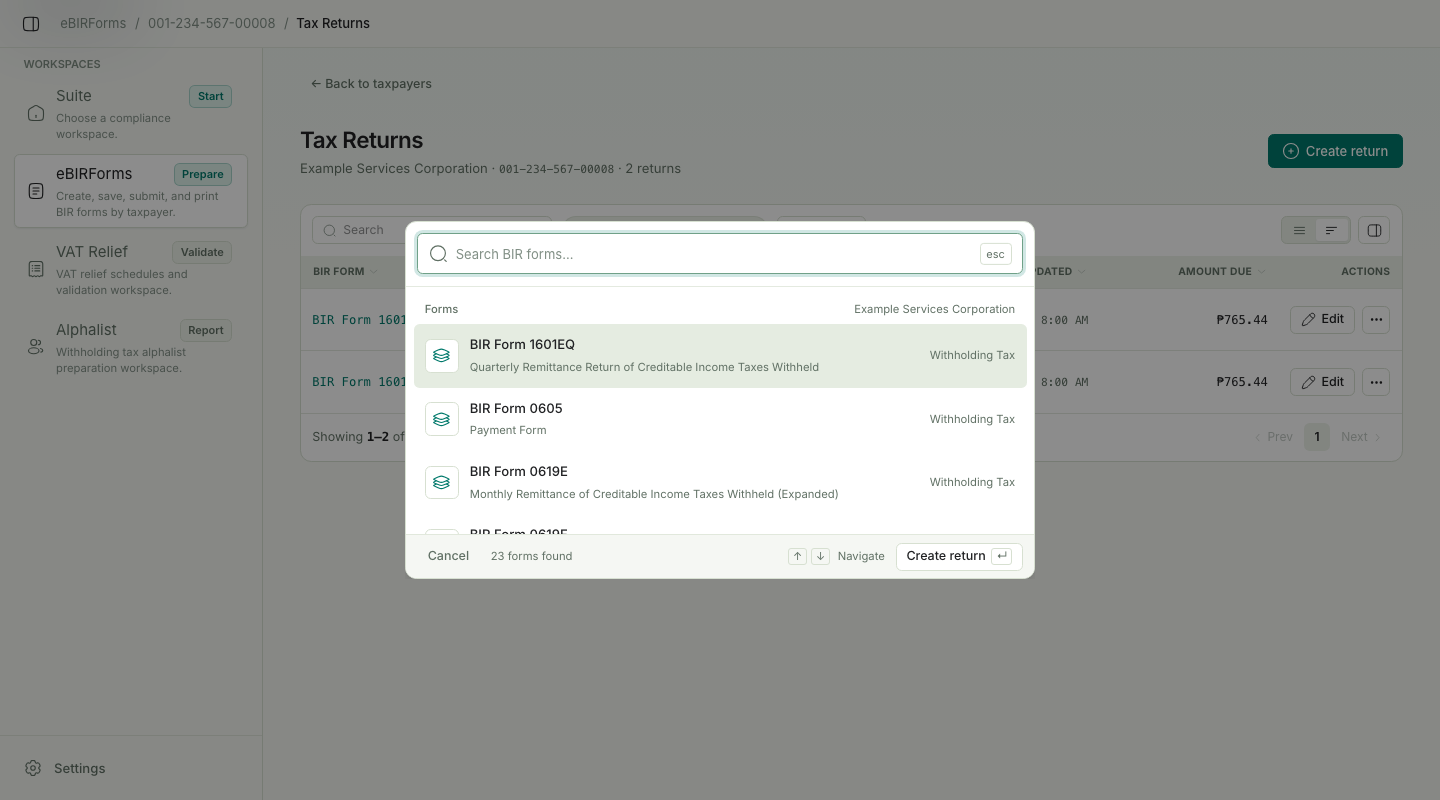
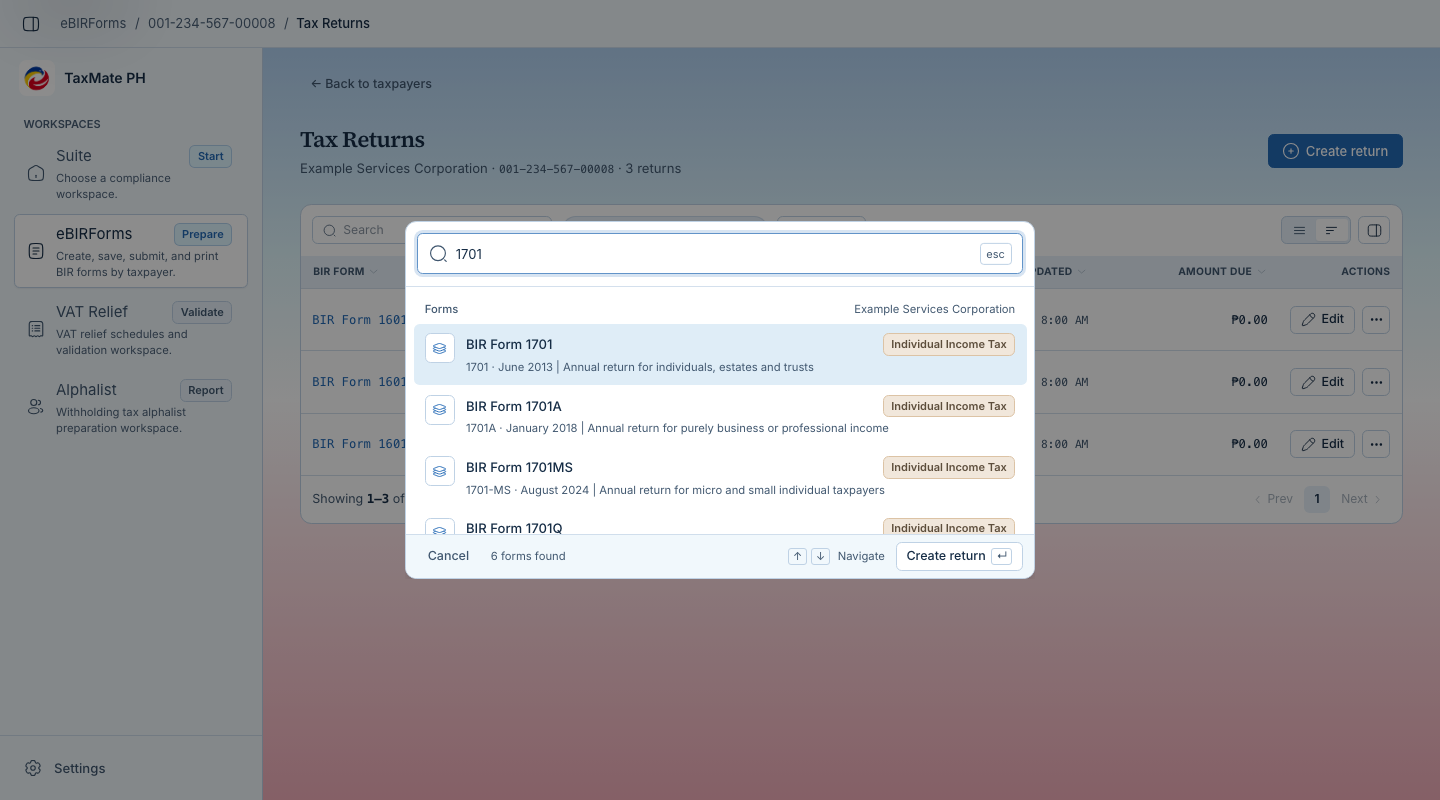
fix(readme): refresh the app tour and screenshots

diff --git a/README.md b/README.md
@@ -1,142 +1,132 @@
 <p align="center">
-  <img src="src-tauri/icons/icon.png" alt="TaxMate PH app logo" width="128" />
+  <img src="src-tauri/icons/icon.png" alt="TaxMate PH app logo" width="112" />
 </p>
 
 <h1 align="center">TaxMate PH</h1>
 
-<p align="center"><strong>Your taxpayers. Your returns. One workspace.</strong></p>
+<p align="center">A desktop workspace for preparing Philippine BIR returns.</p>
 
 <p align="center">
-  <a href="#why-taxmate-ph-was-created">Why TaxMate PH</a> ·
-  <a href="#what-you-can-do-today">Features</a> ·
-  <a href="#a-look-inside">Screenshots</a> ·
-  <a href="#currently-supported-ebirforms">Supported forms</a>
+  <a href="#features">Features</a> ·
+  <a href="#app-tour">App tour</a> ·
+  <a href="#supported-bir-forms">Supported forms</a> ·
+  <a href="#sending-and-filing-status">Sending and filing status</a> ·
+  <a href="#run-from-source">Run from source</a>
 </p>
 
-TaxMate PH is a Philippine tax preparation workspace for managing taxpayers,
-preparing supported BIR returns, checking entries, and generating printable PDFs.
-Its current working module is **eBIRForms**, with **23 supported form versions**.
+Manage taxpayer profiles, reuse details across returns, and keep draft and final
+copies by reporting period. The eBIRForms workspace covers **31 form versions**,
+including **23 payment and withholding versions** and **8 individual income tax
+versions**.
 
-The project is a proof of concept and is not an official BIR application. Its
-calculations and form coverage do not establish current legal applicability or
-guarantee BIR acceptance.
+TaxMate PH is an independent proof of concept that grew out of the need for a
+cross-platform alternative to the legacy Windows eBIRForms utility. For filing
+requirements and accepted forms, refer to the Bureau of Internal Revenue.
 
-![TaxMate PH return editor showing a sample 1601-EQ with taxpayer details, ATC entries, and a calculated summary](.github/assets/return-editor.png)
+![Form 1601-EQ editor showing taxpayer details, an ATC line item, and calculated tax withheld](.github/assets/return-editor.png)
 
-*Form 1601-EQ preparation with fictional sample data.*
+*Form 1601-EQ with fictional sample data.*
 
-## Why TaxMate PH was created
+## Features
 
-TaxMate PH grew out of frustration with the legacy eBIRForms app and its
-Windows-only availability. Preparing Philippine tax returns should be easier to
-manage and accessible to people using other operating systems.
+| Feature | What you can do |
+| --- | --- |
+| Taxpayer profiles | Keep TIN, branch, RDO, address, contact, and classification details on your device. Reuse them when creating returns. |
+| Form preparation | Choose from legacy and revised forms. Work through form-specific fields and schedules, select alphanumeric tax codes (ATCs), and review calculated totals, credits, remittances, or balances. |
+| Validation and saved returns | Review highlighted entries, save drafts, and mark validated copies final locally. Find returns by period and status, and archive or restore working records. Enter penalty amounts manually where applicable. |
+| PDF export | Generate printable copies in A4, Letter, Long / Folio, or Legal. Supported withholding schedules can continue on additional pages. |
+| Return packages and history | Prepare packages locally, use desktop sending for eligible 1601-EQ returns, and review locally recorded results and submission logs. |
+| Workspace preferences | Choose an eBIRForms, Teal, or Catppuccin palette, set light, dark, or system appearance, and save a default paper size. |
 
-The goal is to bring workflows commonly handled through separate desktop
-utilities into a consistent workspace: maintain taxpayer details once, reuse them
-across returns, save work by reporting period, and review forms before sending or
-printing them.
+## App tour
 
-The broader aim is to make these workflows accessible across macOS, Windows,
-Linux, and Android, and eventually bring eBIRForms, VAT RELIEF, and Alphalist
-together. Platform coverage and the planned modules are still being developed.
+The screenshots use fictional sample records.
 
-## What you can do today
+### Workspace home
 
-- **Manage multiple taxpayers.** Save taxpayer profiles with TIN, branch, RDO,
-  registered address, contact details, and classification. Reuse those details
-  when preparing returns.
-- **Create and save returns by taxpayer and period.** Reopen saved drafts,
-  review their status and amount due, and search or filter the forms list.
-- **Prepare supported payment and withholding forms.** Enter amounts and
-  schedules, select applicable ATCs, and use form-specific calculations for
-  totals, credits, remittances, and balances.
-- **Check entries before finalizing.** Review highlighted missing or inconsistent
-  values and mark validated returns as final locally. Penalty amounts are entered
-  manually; the app does not calculate them from days late.
-- **Export printable PDFs.** Generate the packaged forms' original layouts on
-  A4, Letter, or Long paper, with continuation pages for additional schedule rows.
-- **Prepare locally or send eligible returns.** Prepare a return package on your
-  device without uploading, or use the desktop sending workflow for Form 1601-EQ.
-- **Review submission history and logs.** Inspect locally recorded uploads and
-  preparation results. Archive and restore taxpayers or returns, or delete working
-  copies while retaining submission history.
-- **Keep working records on your device.** Taxpayer profiles, saved returns, and
-  preferences are stored locally. Choose light or dark appearance and a default
-  paper size.
+Open eBIRForms to start preparing returns, or preview the planned VAT Relief and
+Alphalist workflows.
 
-## A look inside
+![TaxMate PH home showing eBIRForms, planned workspaces, and the filing workflow](.github/assets/workspaces.webp)
 
-These screenshots show the current interface with fictional sample records.
+### Taxpayers and profiles
 
-### Keep taxpayer records together
+Find taxpayers by name or TIN. Create or edit a profile, then review its
+registration, personal, or spouse details where applicable before opening the
+taxpayer’s returns.
 
-Find a taxpayer by name or TIN, review their profile, and open their returns.
+![Taxpayer list with sample profiles, search, filters, and profile actions](.github/assets/taxpayers.png)
 
-![Taxpayer list with three fictional profiles, search, filters, and profile actions](.github/assets/taxpayers.png)
+![Taxpayer profile showing registration and personal details and actions to edit the profile or manage forms](.github/assets/taxpayer-profile.webp)
 
-### Track returns by period and status
+### Tax Returns and form chooser
 
-Review saved drafts and final copies for each taxpayer, then open a return to
-continue preparing it. Final status means it was finalized locally.
+Review a taxpayer’s saved returns, reporting periods, amounts due, and status.
+Open an existing return or choose **Create return** to search the catalog by
+form number, title, or category. The return’s action menu includes PDF export
+and finalization.
 
-![Saved returns for a sample taxpayer showing quarterly periods, draft and final status, and amounts due](.github/assets/saved-returns.png)
+![Saved returns with quarterly periods, draft and final status, and amounts due](.github/assets/saved-returns.png)
 
-### Choose a supported BIR form
+![Create a tax return dialog showing individual income tax form versions matching a search for 1701](.github/assets/form-chooser.png)
 
-Search the form chooser to start a new return, including the available legacy
-and revised form versions.
+### Return editor
 
-![Create-return dialog listing the supported BIR forms](.github/assets/form-chooser.png)
+Start with taxpayer details filled in from the selected profile. Withholding
+editors show ATC line items and remittance totals. Individual income tax editors
+provide form-specific sections for income, deductions, credits, and
+calculations.
 
-## Currently supported eBIRForms
+![Form 1701A income tax editor showing an income schedule and calculated amounts for a sample sole proprietor](.github/assets/income-tax-editor.webp)
 
-The payment and withholding versions support preparation, calculation and validation, saved working
-copies, local finalization, local package preparation, and PDF output.
-**Sending to BIR is currently limited to Form 1601-EQ.**
+### Settings and submission log
+
+Set the app’s appearance, default paper size, and sending mode. On desktop,
+open the submission log to review preparation, connection, and upload results.
+
+![Settings page showing theme previews, appearance modes, the default paper size, and sending mode](.github/assets/settings.webp)
+
+## Supported BIR forms
 
 ### Payment and monthly remittance forms
 
-| Form | Purpose | Version available |
+| Form | Purpose | Available revisions |
 | --- | --- | --- |
-| 0605 | Payment form | Packaged version |
-| 0619-E | Monthly remittance of creditable income taxes withheld — expanded | 2018 version |
-| 0619-F | Monthly remittance of final income taxes withheld | 2018 version |
-| 1600 | Monthly remittance of VAT and other percentage taxes withheld | Packaged version |
-| 1600-PT | Monthly remittance of other percentage taxes withheld | 2018 version |
-| 1600-VT | Monthly remittance of VAT withheld | 2018 version |
-| 1600-WP | Remittance of percentage tax on winnings and prizes | Packaged version |
-| 1601-C | Monthly remittance of income taxes withheld on compensation | Legacy and 2018 versions |
-| 1601-E | Monthly remittance of creditable income taxes withheld — expanded | Legacy, pre-2018 |
-| 1601-F | Monthly remittance of final income taxes withheld | Legacy, pre-2018 |
-| 1602 | Monthly remittance of final income taxes withheld on interest paid | Legacy, pre-2018 |
+| 0605 | Payment form | September 2003 |
+| 0619-E | Monthly remittance of creditable income taxes withheld — expanded | January 2018 |
+| 0619-F | Monthly remittance of final income taxes withheld | January 2018 |
+| 1600 | Monthly remittance of VAT and other percentage taxes withheld | September 2005 |
+| 1600-PT | Monthly remittance of other percentage taxes withheld | January 2018 |
+| 1600-VT | Monthly remittance of VAT withheld | January 2018 |
+| 1600-WP | Remittance of percentage tax on winnings and prizes | January 2010 |
+| 1601-C | Monthly remittance of income taxes withheld on compensation | July 2008 and January 2018 |
+| 1601-E | Monthly remittance of creditable income taxes withheld — expanded | September 2007 |
+| 1601-F | Monthly remittance of final income taxes withheld | September 2005 |
+| 1602 | Monthly remittance of final income taxes withheld on interest paid | August 2001 |
 
 ### Quarterly remittance forms
 
-| Form | Purpose | Version available |
+| Form | Purpose | Available revisions |
 | --- | --- | --- |
-| 1601-EQ | Quarterly remittance of creditable income taxes withheld — expanded | Packaged version |
-| 1601-FQ | Quarterly remittance of final income taxes withheld | 2018 version |
-| 1602-Q | Quarterly remittance of final income taxes withheld on interest paid | 2018 version |
-| 1603 | Quarterly remittance of final income taxes withheld on fringe benefits | Legacy, pre-2018 |
-| 1603-Q | Quarterly remittance of final income taxes withheld on fringe benefits | 2018 version |
+| 1601-EQ | Quarterly remittance of creditable income taxes withheld — expanded | January 2018 |
+| 1601-FQ | Quarterly remittance of final income taxes withheld | January 2018 |
+| 1602-Q | Quarterly remittance of final income taxes withheld on interest paid | January 2018 |
+| 1603 | Quarterly remittance of final income taxes withheld on fringe benefits | November 2004 |
+| 1603-Q | Quarterly remittance of final income taxes withheld on fringe benefits | January 2018 |
 
 ### Annual information and real property forms
 
-| Form | Purpose | Version available |
+| Form | Purpose | Available revisions |
 | --- | --- | --- |
-| 1604-C | Annual information return of income taxes withheld on compensation | Packaged version |
-| 1604-CF | Annual information return of income taxes withheld on compensation and final withholding taxes | Legacy version |
-| 1604-E | Annual information return of creditable income taxes withheld — expanded | Legacy and 2018 versions |
-| 1604-F | Annual information return of income payments subjected to final withholding taxes | Packaged version |
-| 1606 | Withholding tax remittance for onerous transfer of real property | Packaged version |
-
-The 23 payment and withholding versions are based on the supplied **eBIRForms v7.9.6.0** package. Annual information returns reconcile remittances and have no amount payable.
+| 1604-C | Annual information return of income taxes withheld on compensation | January 2018 |
+| 1604-CF | Annual information return of income taxes withheld on compensation and final withholding taxes | July 2008 |
+| 1604-E | Annual information return of creditable income taxes withheld — expanded | July 1999 and January 2018 |
+| 1604-F | Annual information return of income payments subjected to final withholding taxes | January 2018 |
+| 1606 | Withholding tax remittance for onerous transfer of real property | July 1999 |
 
 ### Individual income tax
 
-The individual income tax editors and base-page PDFs use the supplied **eBIRForms v7.9.6.2** resources.
-
-| Form | Available versions |
+| Form | Available revisions |
 | --- | --- |
 | 1700 | June 2013 and January 2018 |
 | 1701 | June 2013 and January 2018 |
@@ -144,35 +134,54 @@ The individual income tax editors and base-page PDFs use the supplied **eBIRForm
 | 1701-MS | August 2024 |
 | 1701Q | July 2008 and January 2018 |
 
-Returns can be saved and reopened locally. Coverage of repeatable legacy schedules and special or exempt activity attachments is partial.
-
 ## Sending and filing status
 
-The desktop app provides **Send to BIR** and **Prepare locally** modes. Live sending
-is currently limited to **1601-EQ** and requires configured submission credentials,
-available BIR services, and a verified OpenSSH server key in
-`settings/bir-known-hosts` under the app data directory. Unknown or changed keys
-are rejected before authentication; the app never trusts a presented key automatically. Other
-supported forms can be prepared locally but cannot currently be uploaded through
-the app.
+Use **Prepare locally** to save a return package on your device. **Send to BIR**
+is available for **Form 1601-EQ** in the desktop app and requires configured
+submission credentials, an available BIR service, and a verified OpenSSH server
+key in `settings/bir-known-hosts` under the app data directory. Unknown or changed
+server keys are rejected before authentication.
 
-A **Submitted** status records a successful upload. It does not establish BIR
-acceptance or replace an acknowledgment. The app does not retrieve BIR confirmation
-emails, acknowledgment reference numbers, or subsequent processing status. Marking
-a return **Final** or exporting its PDF is also a local action, not proof of filing.
+| Status | What it records |
+| --- | --- |
+| Draft | A saved working copy you can reopen and edit. |
+| Final | A return that passed the app’s validation and was marked final locally. |
+| Submitted | A successful upload. BIR receipt, acceptance, and processing status must be confirmed separately. |
 
-Submission compatibility fixtures come from the supplied installer serializer and
-original cipher instructions. Local tests cover payload mapping, encryption,
-dispatcher fallback, and loopback SFTP completion without contacting BIR. See
-[the compatibility fixtures](src-tauri/tests/fixtures/submission/README.md) and
-[local SFTP test instructions](src-tauri/tests/fixtures/submission/sftp-tests.md).
+PDF exports are local copies. BIR acknowledgment emails and reference numbers
+are handled outside the app. For technical details, see the
+[submission data flow](docs/bir-submission-dataflow.md) and
+[compatibility fixtures](src-tauri/tests/fixtures/submission/README.md). See the
+[local SFTP test instructions](src-tauri/tests/fixtures/submission/sftp-tests.md)
+to exercise submission handling without connecting to BIR.
 
 ## Planned workspaces
 
-- **VAT RELIEF:** preparation and validation of VAT Summary Lists of Sales and
-  Purchases, with submission-file generation.
-- **Alphalist:** preparation and validation of withholding-tax alphalists and
+- **VAT Relief** will cover VAT Summary Lists of Sales and Purchases, including
+  validation and submission-file generation.
+- **Alphalist** will cover withholding-tax alphalists, including validation and
   related submission files.
 
-These workspaces are currently placeholders. Forms outside the list above,
-including corporate income tax and regular VAT returns, are not yet supported.
+Both pages currently preview the planned workflows. Corporate income tax and
+regular VAT returns are outside the current forms catalog.
+
+## Run from source
+
+TaxMate PH uses SvelteKit and Tauri. With Bun, Rust, and the platform’s Tauri
+prerequisites installed, run the following from the repository root.
+
+```sh
+bun install
+bun run tauri dev
+```
+
+Use `bun run dev` for a browser preview of the interface. PDF export and live
+sending require the desktop app. PDF export uses a Chromium-compatible browser.
+See the [PDF renderer setup](src-tauri/binaries/README.md).
+
+```sh
+bun run check
+bun run test:run
+bunx playwright install chromium
+bun run test:browser
+```
